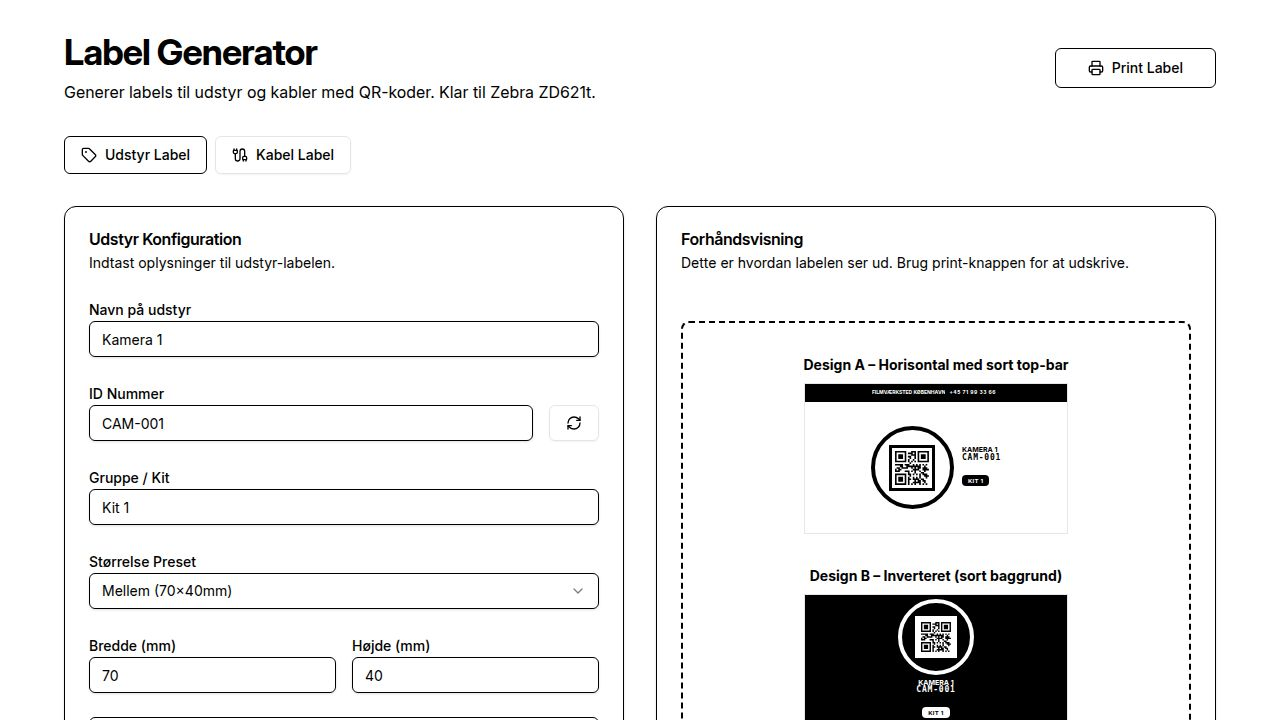
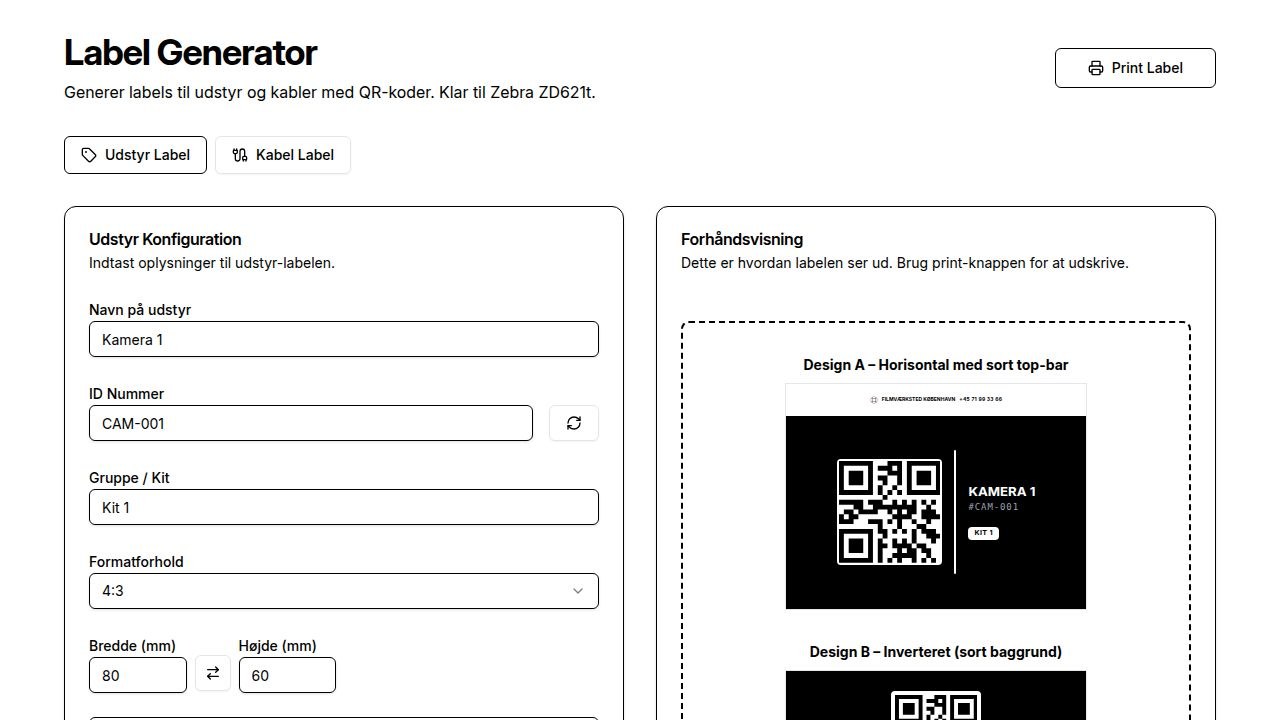
Invert colors for Design A and adjust QR code appearance
Inverts the color scheme of the 'EquipmentLabelDesignA' component to have a black background with white text and a white top bar with black text. Also adjusts the QR code styling to ensure scannability.

Replit-Commit-Author: Agent
Replit-Commit-Session-Id: bee3b31d-45ac-4f89-a601-8fda68c55ae2
Replit-Commit-Checkpoint-Type: full_checkpoint
Replit-Commit-Event-Id: d84de65d-deab-4c6a-8b7b-4041fbd44b24
Replit-Commit-Screenshot-Url: https://storage.googleapis.com/screenshot-production-us-central1/df6f6ef9-597f-4ab2-aabd-444b9c30c995/bee3b31d-45ac-4f89-a601-8fda68c55ae2/0m5galc
Replit-Helium-Checkpoint-Created: true

diff --git a/client/src/pages/label-generator.tsx b/client/src/pages/label-generator.tsx
@@ -70,24 +70,24 @@ function EquipmentLabelDesignA({ data, isPreview = false }: { data: EquipmentFor
   const logoH = `${Math.max(8, height * 0.1)}px`;
 
   return (
-    <div className="bg-white text-black relative flex flex-col overflow-hidden border-0" style={{ width: `${width}mm`, height: `${height}mm`, boxSizing: "border-box", pageBreakInside: "avoid", border: isPreview ? '1px solid #e5e7eb' : 'none' }}>
-      <div className="bg-black text-white flex items-center justify-center px-1 w-full flex-shrink-0 gap-1" style={{ height: barH }}>
-        <img src="/logo.png" alt="Logo" className="object-contain filter invert brightness-0 saturate-100 invert-[1] flex-shrink-0" style={{ height: logoH }} />
+    <div className="bg-black text-white relative flex flex-col overflow-hidden border-0" style={{ width: `${width}mm`, height: `${height}mm`, boxSizing: "border-box", pageBreakInside: "avoid", border: isPreview ? '1px solid #e5e7eb' : 'none' }}>
+      <div className="bg-white text-black flex items-center justify-center px-1 w-full flex-shrink-0 gap-1" style={{ height: barH }}>
+        <img src="/logo.png" alt="Logo" className="object-contain flex-shrink-0" style={{ height: logoH }} />
         <span className="font-bold uppercase whitespace-nowrap flex-shrink-0" style={{ fontSize: infoFs }}>Filmværksted København</span>
         <span className="font-bold tracking-wider whitespace-nowrap flex-shrink-0" style={{ fontSize: infoFs }}>+45 71 99 33 66</span>
       </div>
       <div className="flex-1 flex items-center justify-center min-h-0 p-2 overflow-hidden">
         <div className="flex flex-row items-center gap-3 h-full max-w-full overflow-hidden">
-          <div className="flex items-center justify-center flex-shrink-0" style={{ width: `${qrSize}mm`, height: `${qrSize}mm` }}>
+          <div className="flex items-center justify-center flex-shrink-0 bg-white p-0.5 rounded" style={{ width: `${qrSize}mm`, height: `${qrSize}mm` }}>
             <QRCode value={data.id} style={{ height: "100%", width: "100%", maxWidth: "100%", objectFit: "contain" }} viewBox="0 0 256 256" />
           </div>
-          <div className="h-[70%] w-[2px] bg-black rounded-full flex-shrink-0"></div>
+          <div className="h-[70%] w-[2px] bg-white rounded-full flex-shrink-0"></div>
           <div className="flex flex-col justify-center min-w-0 overflow-hidden">
             <div className="font-bold uppercase leading-tight" style={{ fontSize: nameFs, wordBreak: 'break-word', overflowWrap: 'break-word', lineHeight: 1.15 }}>{data.name}</div>
-            <div className="font-mono tracking-widest mt-1 text-gray-600" style={{ fontSize: idFs, wordBreak: 'break-all', overflowWrap: 'break-word', lineHeight: 1.1 }}>#{data.id}</div>
+            <div className="font-mono tracking-widest mt-1 text-gray-400" style={{ fontSize: idFs, wordBreak: 'break-all', overflowWrap: 'break-word', lineHeight: 1.1 }}>#{data.id}</div>
             {data.group && (
               <div className="mt-1">
-                <span className="bg-black text-white font-bold uppercase tracking-wider rounded inline-block" style={{ fontSize: groupFs, padding: '1px 6px' }}>{data.group}</span>
+                <span className="bg-white text-black font-bold uppercase tracking-wider rounded inline-block" style={{ fontSize: groupFs, padding: '1px 6px' }}>{data.group}</span>
               </div>
             )}
           </div>
